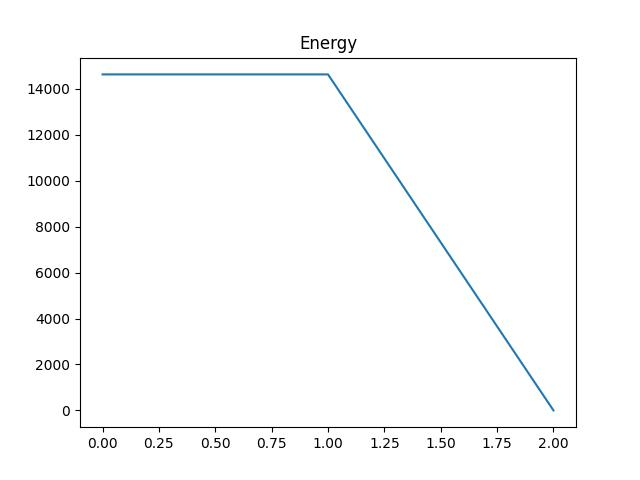
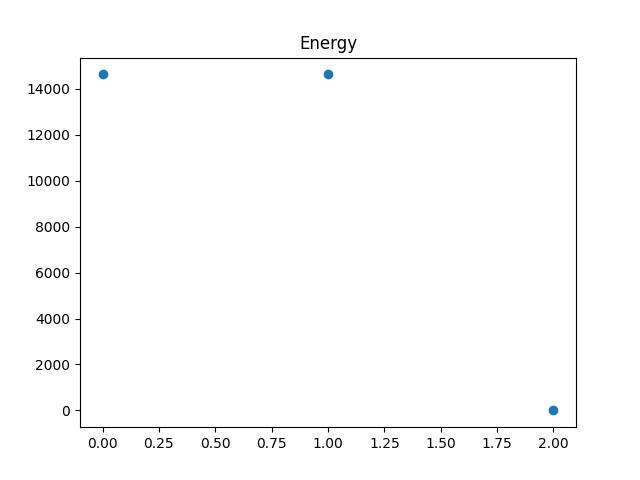
changement graphe énergie

diff --git a/postprocessing.py b/postprocessing.py
@@ -112,7 +112,7 @@ def _plot_error(err):
 
 def _plot_energy_history(energy):
 
-    matplotlib.pyplot.plot(energy) #, cmap = 'jet')#, vmin = 1e-4, vmax = 1e-0)
+    matplotlib.pyplot.scatter(numpy.arange(energy.shape[0]),energy) #, cmap = 'jet')#, vmin = 1e-4, vmax = 1e-0)
     matplotlib.pyplot.title('Energy')
     #matplotlib.pyplot.colorbar()
     #matplotlib.pyplot.show()
